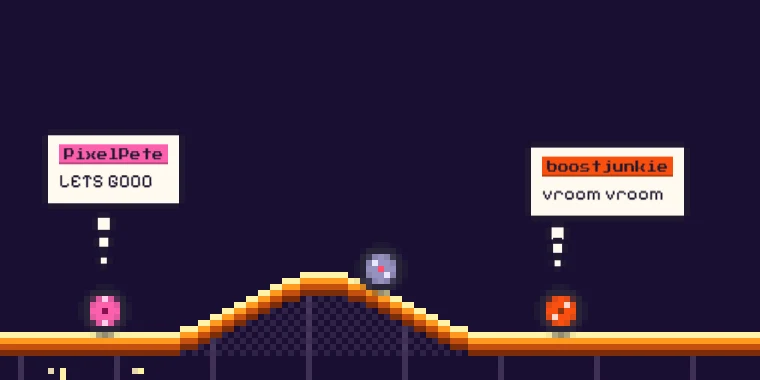
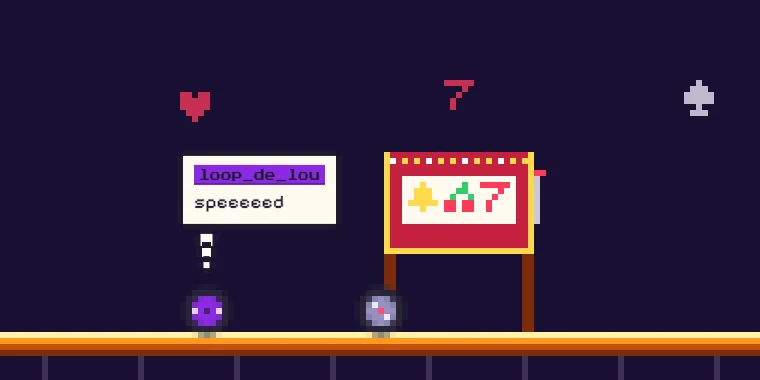
Describe the Stunt Wheel's pinball and casino pieces
The guide covers the bumpers, flippers, drop targets, slot machines,
roulette loops and crash hazards, and the two new settings (crashes and
decor). The home card has a new screenshot with a slot machine.

diff --git a/tools/stunt-wheel.html b/tools/stunt-wheel.html
@@ -6,7 +6,7 @@
     <title>Stunt Wheel · Ixitxachitl's Stream Tools</title>
     <meta
       name="description"
-      content="Set up the Stunt Wheel: a transparent OBS overlay where a tiny pixel-art wheel races an endless stunt track along the bottom of your stream, and chatters roll by on wheels of their own with pixel speech bubbles."
+      content="Set up the Stunt Wheel: a transparent OBS overlay where a tiny pixel-art wheel races an endless pinball-and-casino stunt track along the bottom of your stream, and chatters roll by on wheels of their own with pixel speech bubbles."
     />
     <meta property="og:image" content="../assets/img/stunt-wheel-card.webp" />
     <meta name="theme-color" content="#1a0f33" />
@@ -47,10 +47,10 @@
             <div>
               <h1>Stunt Wheel</h1>
               <p class="lead">
-                A tiny pixel-art wheel races along the bottom of your stream on a track that never ends. It hits
-                boost pads, flies off ramps, bounces on springs and spins through loop-the-loops. When people chat,
-                they get a wheel of their own in their chat color: it races in, parks next to yours to say its
-                piece in a pixel speech bubble, then zooms off.
+                A tiny pixel-art wheel races along the bottom of your stream on a track that never ends: ramps,
+                boost pads and loop-the-loops, pinball bumpers and flippers, slot machines and roulette wheels.
+                When people chat, they get a wheel of their own in their chat color: it races in, parks next to
+                yours to say its piece in a pixel speech bubble, then zooms off (unless it hits a die on the way).
               </p>
               <div class="url-box">
                 <label class="sr-only" for="url">Overlay URL</label>
@@ -168,6 +168,16 @@
                     pads and full loop-the-loops. The track builds itself as it goes, so no two runs are the same.
                   </li>
                   <li>
+                    Pinball pieces: pop bumpers that kick wheels into the air for points, flippers that swat them
+                    over a gap, and drop targets to knock flat for a bonus.
+                  </li>
+                  <li>
+                    Casino pieces: slot machines the track runs through (now and then one hits 7-7-7 and pays
+                    out a JACKPOT), roulette-wheel loops, and dice and chip stacks to hop. Your wheel always makes
+                    it over; chat wheels sometimes don't, and go BOOM.
+                  </li>
+                  <li>Dice, poker chips, coins, card suits and stars drift slowly behind the track.</li>
+                  <li>
                     Every chatter gets a wheel in their chat color. It races in from the left, parks near the
                     middle while its bubble is up, then races off to the right.
                   </li>
@@ -212,6 +222,8 @@
                 <label><input name="bubbles" type="checkbox" checked /> Speech bubbles</label>
                 <label><input name="names" type="checkbox" checked /> Names in bubbles</label>
                 <label><input name="wheels" type="checkbox" checked /> Chat wheels</label>
+                <label><input name="crashes" type="checkbox" checked /> Chat wheels can crash</label>
+                <label><input name="decor" type="checkbox" checked /> Floating decorations</label>
                 <label><input name="demo" type="checkbox" /> Demo chat</label>
               </div>
               <div class="url-box">
@@ -265,6 +277,8 @@
               <tr><td>Pixel size</td><td><code>scale</code></td><td>4</td><td>How big each pixel is on screen. Bigger means chunkier pixels and bigger wheels.</td></tr>
               <tr><td>Track height (rows)</td><td><code>rows</code></td><td>72</td><td>How tall the track strip is, in pixels before scaling (at least 40).</td></tr>
               <tr><td>Speed ×</td><td><code>speed</code></td><td>1</td><td><code>0.5</code> is half speed, <code>2</code> is double.</td></tr>
+              <tr><td>Chat wheels can crash</td><td><code>crashes</code></td><td>on</td><td>Now and then a chat wheel hits a die or a chip stack and blows up. Yours never does, and nobody crashes while their bubble is up.</td></tr>
+              <tr><td>Floating decorations</td><td><code>decor</code></td><td>on</td><td>Dice, chips, coins and card suits drifting behind the track.</td></tr>
               <tr><td>Background (testing)</td><td><code>bg</code></td><td>auto</td><td>In a normal browser the overlay shows a dark background so you can see it. <code>bg=none</code> makes it transparent anyway, or give a color like <code>bg=black</code>. In OBS it's always transparent unless you set a color.</td></tr>
             </tbody>
           </table>

diff --git a/index.html b/index.html
@@ -259,7 +259,7 @@
             <div class="shot">
               <img
                 src="assets/img/stunt-wheel-card.webp"
-                alt="Tiny pixel-art wheels on an orange stunt track: a pink one says LETS GOOO and an orange one says vroom vroom in pixel speech bubbles, while the main wheel crests a hill between them"
+                alt="Tiny pixel-art wheels on an orange stunt track: a purple chatter's wheel says speeeeed in a pixel speech bubble while the main wheel rolls under a slot machine showing a bell, a cherry and a 7, with a heart, a 7 and a spade floating above"
                 width="760"
                 height="380"
                 loading="lazy"
@@ -270,8 +270,8 @@
             <div class="body">
               <h3>Stunt Wheel</h3>
               <p>
-                A tiny pixel-art wheel races an endless stunt track of ramps, boost pads and loop-the-loops. Chatters
-                roll in on wheels of their own, in their chat color, to say their piece in a pixel speech bubble.
+                A tiny pixel-art wheel races an endless pinball-and-casino stunt track. Chatters roll in on wheels
+                of their own, in their chat color, to say their piece in a pixel speech bubble, and sometimes crash.
               </p>
               <ul class="chips" aria-label="Works with">
                 <li class="chip">Twitch</li>
